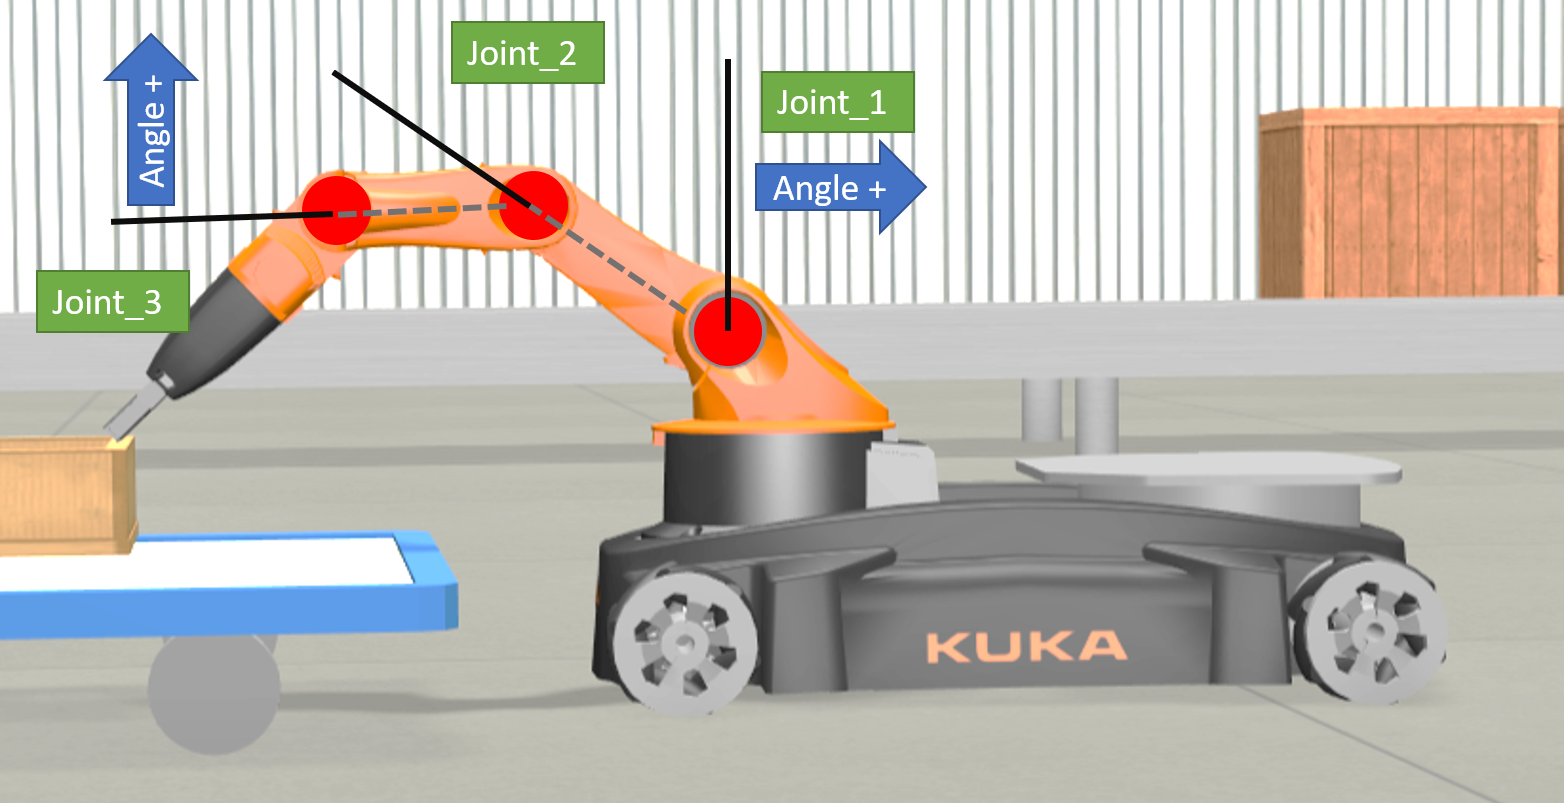
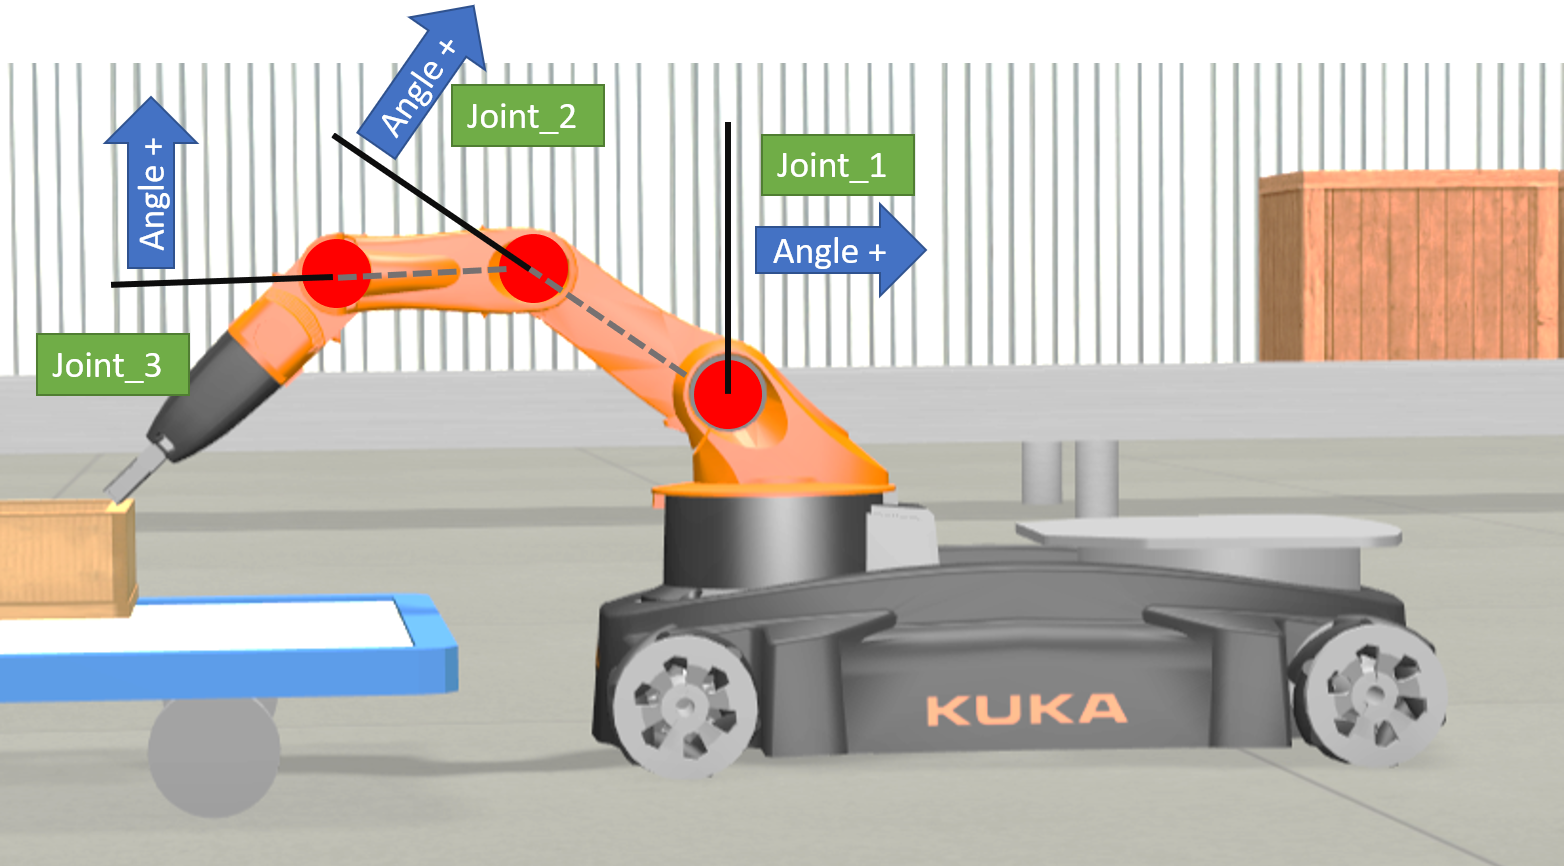
Checking page
Fixed the coordinates in the Python code
Added a few more images, including hint for box

diff --git a/FK_IK_check.py b/FK_IK_check.py
@@ -85,9 +85,11 @@ def IKin(x, y, phi):
 # q12 = -0.6
 # q13 = -0.75
 # q1 limit = -1.13 to 1.57, q2 limit =  -2.64 to 2.55, q3 limit = -1.78 to 1.78
-[x1, y1, phi1] = FKin(1.0, -1.7, 0.3)
+
+
+[x2, y2, phi2] = FKin(-1.0,-0.6,-1.25) #box
+IKin(x2, y2, phi2)
+
+[x1, y1, phi1] = FKin(-0.7, -1.3, -0.75) #trolley
 IKin(x1, y1, phi1)
 
-
-[x2, y2, phi2] = FKin(-1.0,-0.6,-0.75)
-IKin(x2, y2, phi2)

diff --git a/index.md b/index.md
@@ -87,7 +87,7 @@ As you can see, I end up at the park.
 <br>
 
 ![MapExample](images/Map.png)
-*Images Copyright of [Irasutoya](https://www.irasutoya.com)*
+*Cartoons Copyright of [Irasutoya](https://www.irasutoya.com)*
 
 <br>
 
@@ -330,6 +330,12 @@ A good example of this is our own human arm! If I were to make a very simple dra
 
 In this activity, we're going to focus on just the arm of the robot and make it touch the box! If you observe the arm of the robot, it uses **revolute joints**. These are joints that only rotate, a bit like like the hinges in your room door! 
 
+<br>
+
+![TouchtheBox](images/Boxtouch.png)
+
+<br>
+
 The documentation for the Kuka Youbot will help you understand what it is we will be controlling. Click on the following picture to get to the website:
 
 <br>
@@ -347,6 +353,8 @@ The values given in those bars are the angles that the joints can reach. They ar
 ![JointsInfo](images/Joints_Info.png)
 
 <br>
+
+
 
 To start operating this robot arm in joint space:
 
@@ -783,23 +791,23 @@ def Cartesian_to_Joint(x, y, phi):
     l3 = 0.218
     
     # A whole lot of complicated math!
-    big_X = x - (l3*cos(phi))
-    big_Y = y - (l3*sin(phi))
+    big_Y = y - (l3*cos(phi))
+    big_X = x - (l3*sin(phi))
 
-    denom1 = sqrt(big_X**2 + big_Y**2)
-    gamma = atan2((-big_Y/denom1), (-big_X/denom1))
+    denom1 = sqrt(big_Y**2 + big_X**2)
+    gamma = atan2((-big_X/denom1), (-big_Y/denom1))
 
-    denom2 = 2*l1*(sqrt(big_X**2 + big_Y**2))
+    denom2 = 2*l1*(sqrt(big_Y**2 + big_X**2))
 
-    q1_A = gamma + acos(-(big_X**2 + big_Y**2 + l1**2 - l2**2)/denom2)
-    q1_B = gamma - acos(-(big_X**2 + big_Y**2 + l1**2 - l2**2)/denom2)
+    q1_A = gamma + acos(-(big_Y**2 + big_X**2 + l1**2 - l2**2)/denom2)
+    q1_B = gamma - acos(-(big_Y**2 + big_X**2 + l1**2 - l2**2)/denom2)
 
     if q1_A < q1_B:
         q1 = q1_A
     else:
         q1 = q1_B
 
-    q2 = atan2(((big_Y - (l1*sin(q1)))/l2), ((big_X - (l1*cos(q1)))/l2)) - q1
+    q2 = atan2(((big_X - (l1*sin(q1)))/l2), ((big_Y - (l1*cos(q1)))/l2)) - q1
     q3 = phi - q1 - q2
 
     # Just to make sure the outputs come out right!
@@ -833,9 +841,9 @@ def Cartesian_to_Joint(x, y, phi):
 
 # Change these values !!!!!!!!!!!
 
-x = 0.1    # x-coordinate
-y = -0.2   # y-coordinate
-phi = -1.8 # angle of the end of the arm
+x = -0.1    # x-coordinate
+y = -0.05  # y-coordinate
+phi = -2.6 # angle of the end of the arm
 
 # If you put in values that the robot can't get to, you'll see an error in the console!
 
@@ -854,7 +862,7 @@ What do you think? Is it still really hard? What if I gave you this hint:
   <button type="button" class="btn btn-info" data-toggle="collapse" data-target="#demo3">Hint</button>
   <div id="demo3" class="collapse">
     
-    <p><mark><img src="images/YoubotCoordinates-nobox.png" alt="Box_Coordinates"></mark></p>   
+    <p><img src="images/YoubotCoordinates-box.png" alt="Box_Coordinates"></p>   
    
   </div>
 </div>
